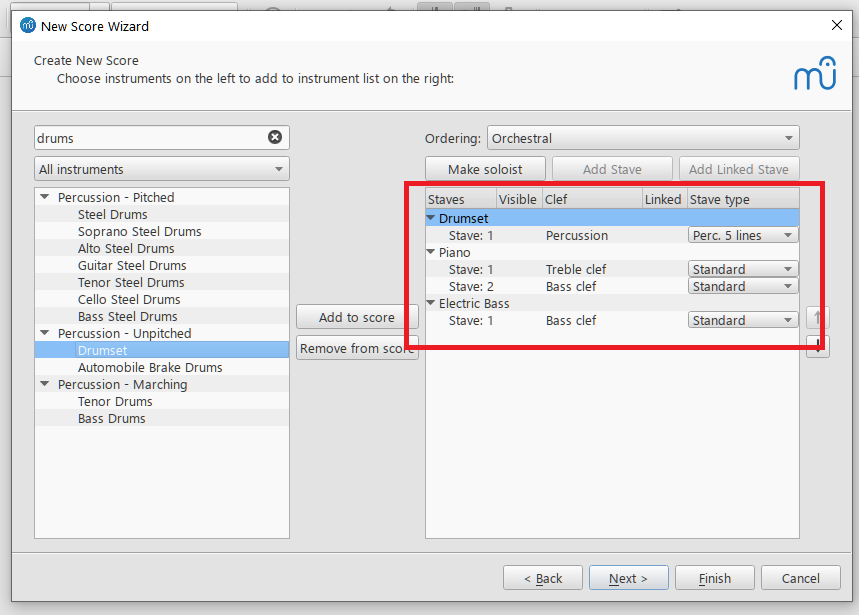
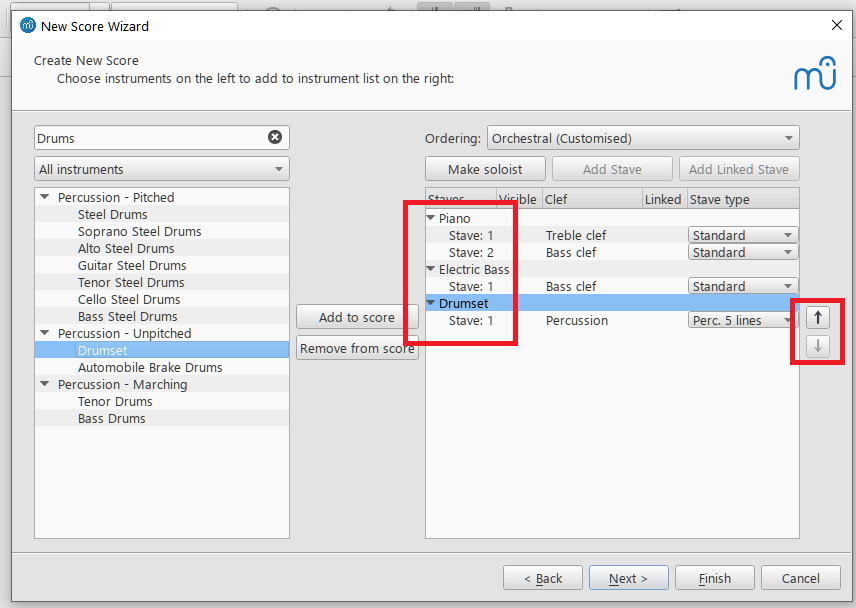
Edits
Edits

Edits

Changed region(s): [[0.0, 0.0312, 1.0, 1.0], [0.0304, 0.875, 0.3341, 0.9062], [0.0304, 0.0312, 0.1822, 0.0625]]

diff --git a/user-assistance/creating-a-music-part.md b/user-assistance/creating-a-music-part.md
@@ -4,11 +4,14 @@ In this topic, we will show you how to enter a music part in a MuseScore documen
 
 ## Creating the file
 
-For creating the score file in which you will enter the part, see [Creating A Score File](creating-a-score-file.md).
+For the process of creating the score file, see [Creating A Score File](creating-a-score-file.md).
 
 ## Entering notes
 
 We will assume you will enter the notes using your mouse and keyboard.
+
+> __NOTE__
+> This topic does not cover the MIDI-based method of using an external instrument for note entry&mdash;such as a synthesizer keyboard.
 
 To start entering notes, click on the note entry drow down box (the _N_ shaped one) at the beginning of the lower toolbar.
 
@@ -22,25 +25,20 @@ For our purposes, the first option&mdash;_Note Input_&mdash;is good enough. Note
 
 If entering the notes by typing their letters on the keyboard is not intuitive enough for you, you can try a more __visual__ method: using the onscreen keyboard. Typing _P_ on the keyboard opens a piano keyboard at the bottom of the score screen.
 
-> __NOTE__
-> This topic does not show the MIDI-based method of using an external keyboard&mdash;such as a synthesizer&mdash;for note entry.
-
 ![Onscreen keyboard](pictures/onscreen-keyboard.png)
 
 By clicking on the onscreen piano keys while note entry is activated, you can enter the line.
-
----
 
 For time values, the second toolbar provides options for whole, half, quarter, etc. notes. By default, the quarter note is selected.
 
 > __NOTE__
 > The entry process may get tedious and frustrating. Try to be patient and always pick the time value first, and then either press the letter of the relevant note on the keyboard or click the corresponding line or space on the staff with your mouse pointer.
 
-You can see the first few bars of our line entered below:
+You can see the first few bars of the line entered below:
 
 ![First few measures](pictures/first-few-measures.png)
 
-To enter "ties"&mdash;i.e. to connect note heads to extend their duration&mdash;you can use the _Tie_ button on the second toolbar.
+To enter "ties" and "slurs"&mdash;to connect note heads in order to extend their duration or to group them for phrasing&mdash;you can use the _Tie_ button on the second toolbar.
 
 ![Tie button](pictures/tie-button.png)
 
@@ -48,6 +46,6 @@ The rests are placed to the right of the tie button, along with accidentals such
 
 ## Playing the part
 
-If you want to hear the notes you have entered, you can press the _Play_ button to play back the score part. If you want to hear the underlying tempo as a beat, you can press the metronome button in the second red box.
+If you want to hear the notes you have entered so far, you can press the _Play_ button to play back the created part. If you want to hear the underlying tempo as a beat, you can press the metronome button to its right.
 
 ![Play and metronome buttons](pictures/play-and-metronome-buttons.png)

diff --git a/user-assistance/creating-a-score-file.md b/user-assistance/creating-a-score-file.md
@@ -7,13 +7,15 @@ In order to create score files, you should have downloaded and installed the pro
 
    ![New Score wizard](pictures/new-score-wizard.png)
 
-   Here you can enter a title for the document&mdash;here, our title is simply "Love Song"&mdash;after which you click _Next_.
+   In this screen, you can enter text to be placed in the score such as _Title_, _Composer_, _Copyright_ for the score. Our title will be simply "Love Song."
+
+   Once these are entered, click _Next_.
 
 3. In the next screen, double click on _Choose Instruments_.
 
    ![Choose instruments](pictures/choose-instruments.png)
 
-4. A list of instruments will appear. Here, expand the _Keyboards_ branch and select _Piano_.   Once you've selected it, you can either double click the instrument's name or click the _Add to score_ button to add the instrument to the right pane.
+   A list of instruments will appear in the left pane. Expand the _Keyboards_ branch and select _Piano_. Once you've selected an instrument, you can either double click its name or click the _Add to score_ button to add it to the right pane.
 
    ![Add keyboards to instruments](pictures/keyboards-piano.png)
 
@@ -21,21 +23,25 @@ In order to create score files, you should have downloaded and installed the pro
 
    ![Selected instruments](pictures/selected-instruments.png)
 
+   The arrows on the right hand side can be used to change the position of the instrument on the score.
+
    Click _Next_ again.
 
-5. One the next screen, you can pick a key signature:
+4. On the next screen, you can pick a key signature:
 
    ![Choose key signature](pictures/choose-key-signature.png)
 
-   Here, we will pick the single-sharp (#) _E minor_ as our key and click _Next_.
+   Here, we will pick the single-sharp (#) _E minor_ as our key.
 
-6. We have arrived at the final screen of the wizard where we can pick a time signature, number of bars, and tempo.
+   Click _Next_.
+
+5. We have arrived at the final screen of the wizard where we can pick a time signature, number of bars, and tempo.
 
    ![Chose time signature and tempo](pictures/choose-time-signature-and-tempo.png)
 
    Pick the defaults and click _Finish_ to complete the wizard:
 
-7. After the wizard closes, the score should look like this:
+6. After the wizard closes, the score should look like this:
 
    ![Created score](pictures/created-score.png)
 
@@ -46,3 +52,5 @@ Don't forget to click _File_ > _Save_ to save your newly created score. MuseScor
 
 > __WARNING__
 > By default, MuseScore files have the __.mscz__ extension. Although this is actually a __zip__ file, it should not be modified as MuseScore will not recognize any other extension.
+
+You are now ready to enter the notes of your score.

diff --git a/user-assistance/introduction.md b/user-assistance/introduction.md
@@ -2,7 +2,7 @@
 
 ## What is MuseScore?
 
-MuseScore is an open-source program to create music scores. In the following pages, we will illustrate how the program can be used to create music parts.
+MuseScore is an open-source program to create music scores. Scores for an extensive palette of classical, jazz, rock, popular, and other traditional and modern ensembles as well as a rich variety of solo instruments can be created easily and accurately with all the required symbols for clefs, keys, accidentals, dynamics, articulation, phrasing, and interpretation for various comtemporary page sizes.
 
 ## Overview
 
@@ -12,9 +12,13 @@ MuseScore is probably one of the best available on the market. And it's free.
 
 Users can enter music parts by using a mouse, a computer keyboard, a digital music keyboard, etc. The entered information conforms to the MIDI standard, and is stored in files structured in an XML-based format. The parts can then be played back on the computer, on MIDI-compliant music instruments, or printed on paper-based media.
 
-Below, you can see a sample generated output:
+Below, you can see a small example of the generated output:
 
 ![A sample score](pictures/score-sample.png)
+
+In the following pages, we will illustrate how the program is used to create music parts.
+
+---
 
 The installation files of the program for Windows, Mac OS, and Linux can be downloaded from the official [MuseScore](https://www.musescore.com) site.
 

diff --git a/user-assistance/frequently-used-features.md b/user-assistance/frequently-used-features.md
@@ -14,3 +14,14 @@ Instruments|_Edit_ > _Instruments_|__I__|
 |Editing elements|_View_ > _Master Palette..._|__Shift__ __F9__|
 
 MuseScore also provides various symbols for articulation, dynamics, barlines, etc. under various __palettes__ that can be found on the left hand panel.
+
+The music entry process may also require use of keys and key combinations for note duration values, phrasing symbols, etc.
+
+|Element|Key|
+|---|---|
+|Tie|__+__|
+|Duration values|__1__&ndash;__9__|
+|Rests|__0__|
+|Tuples|__Ctrl__ <__1__&ndash;__9__>|
+|Slurs|__S__|
+|Transposing note|_Up_ and _Down_ arrow keys|
